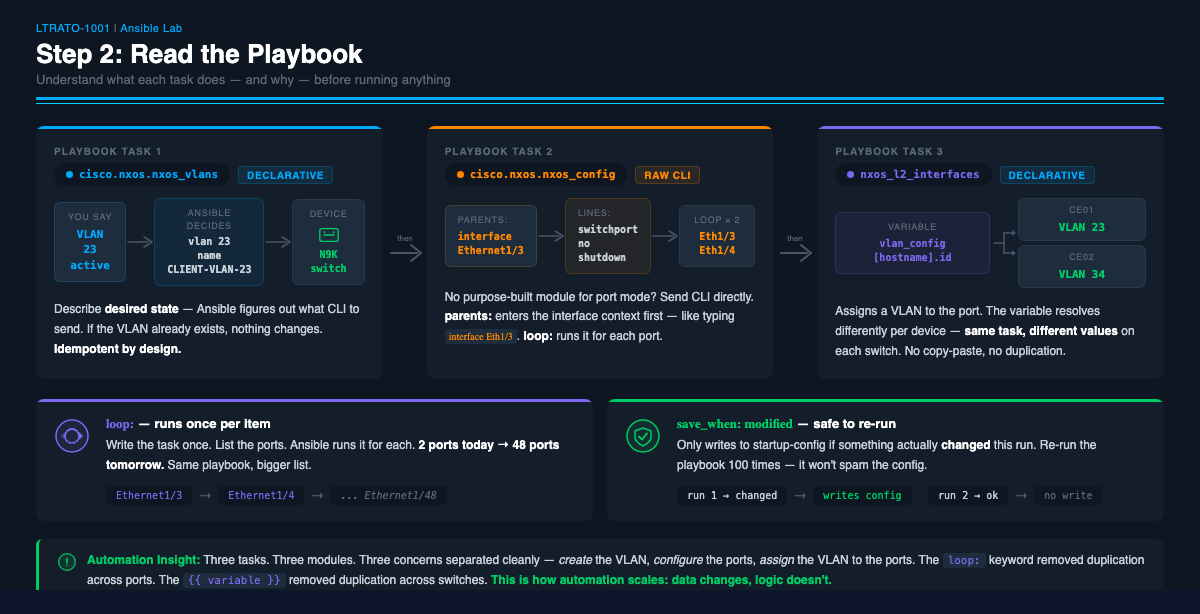
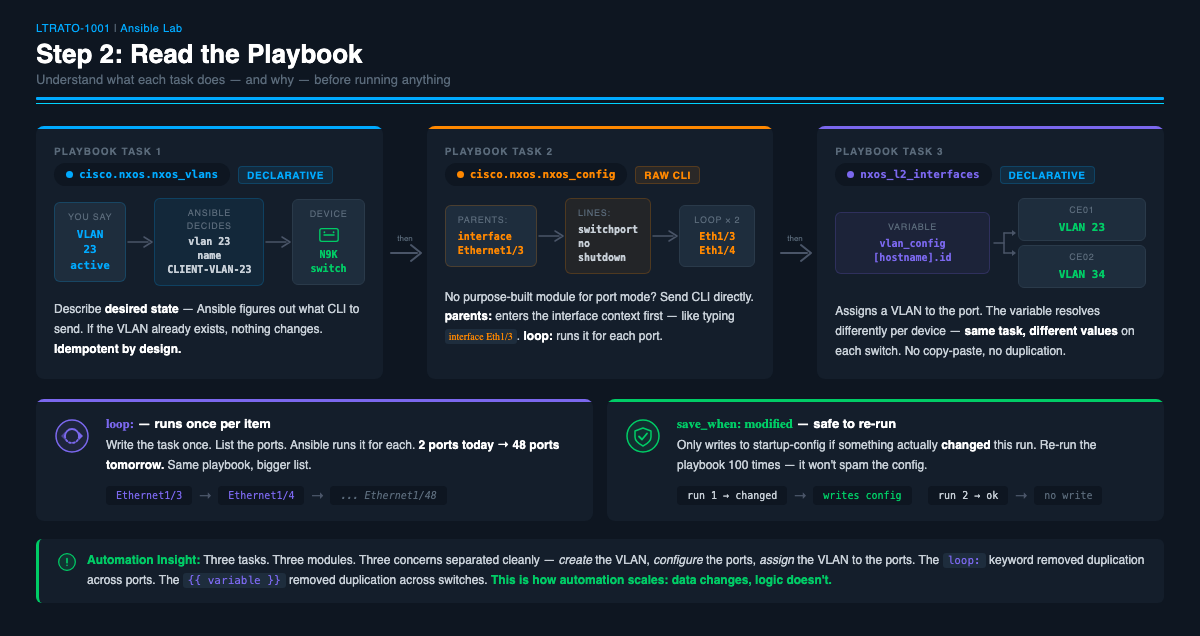
Fix Step 2 slide bottom padding: re-export from HTML source for correct color

diff --git a/slides/task1-step2-read-playbook.html b/slides/task1-step2-read-playbook.html
@@ -20,7 +20,7 @@
   .slide {
     background: #0e1621;
     width: 1200px;
-    padding: 22px 36px 32px 36px;
+    padding: 22px 36px 48px 36px;
     position: relative;
   }
 
